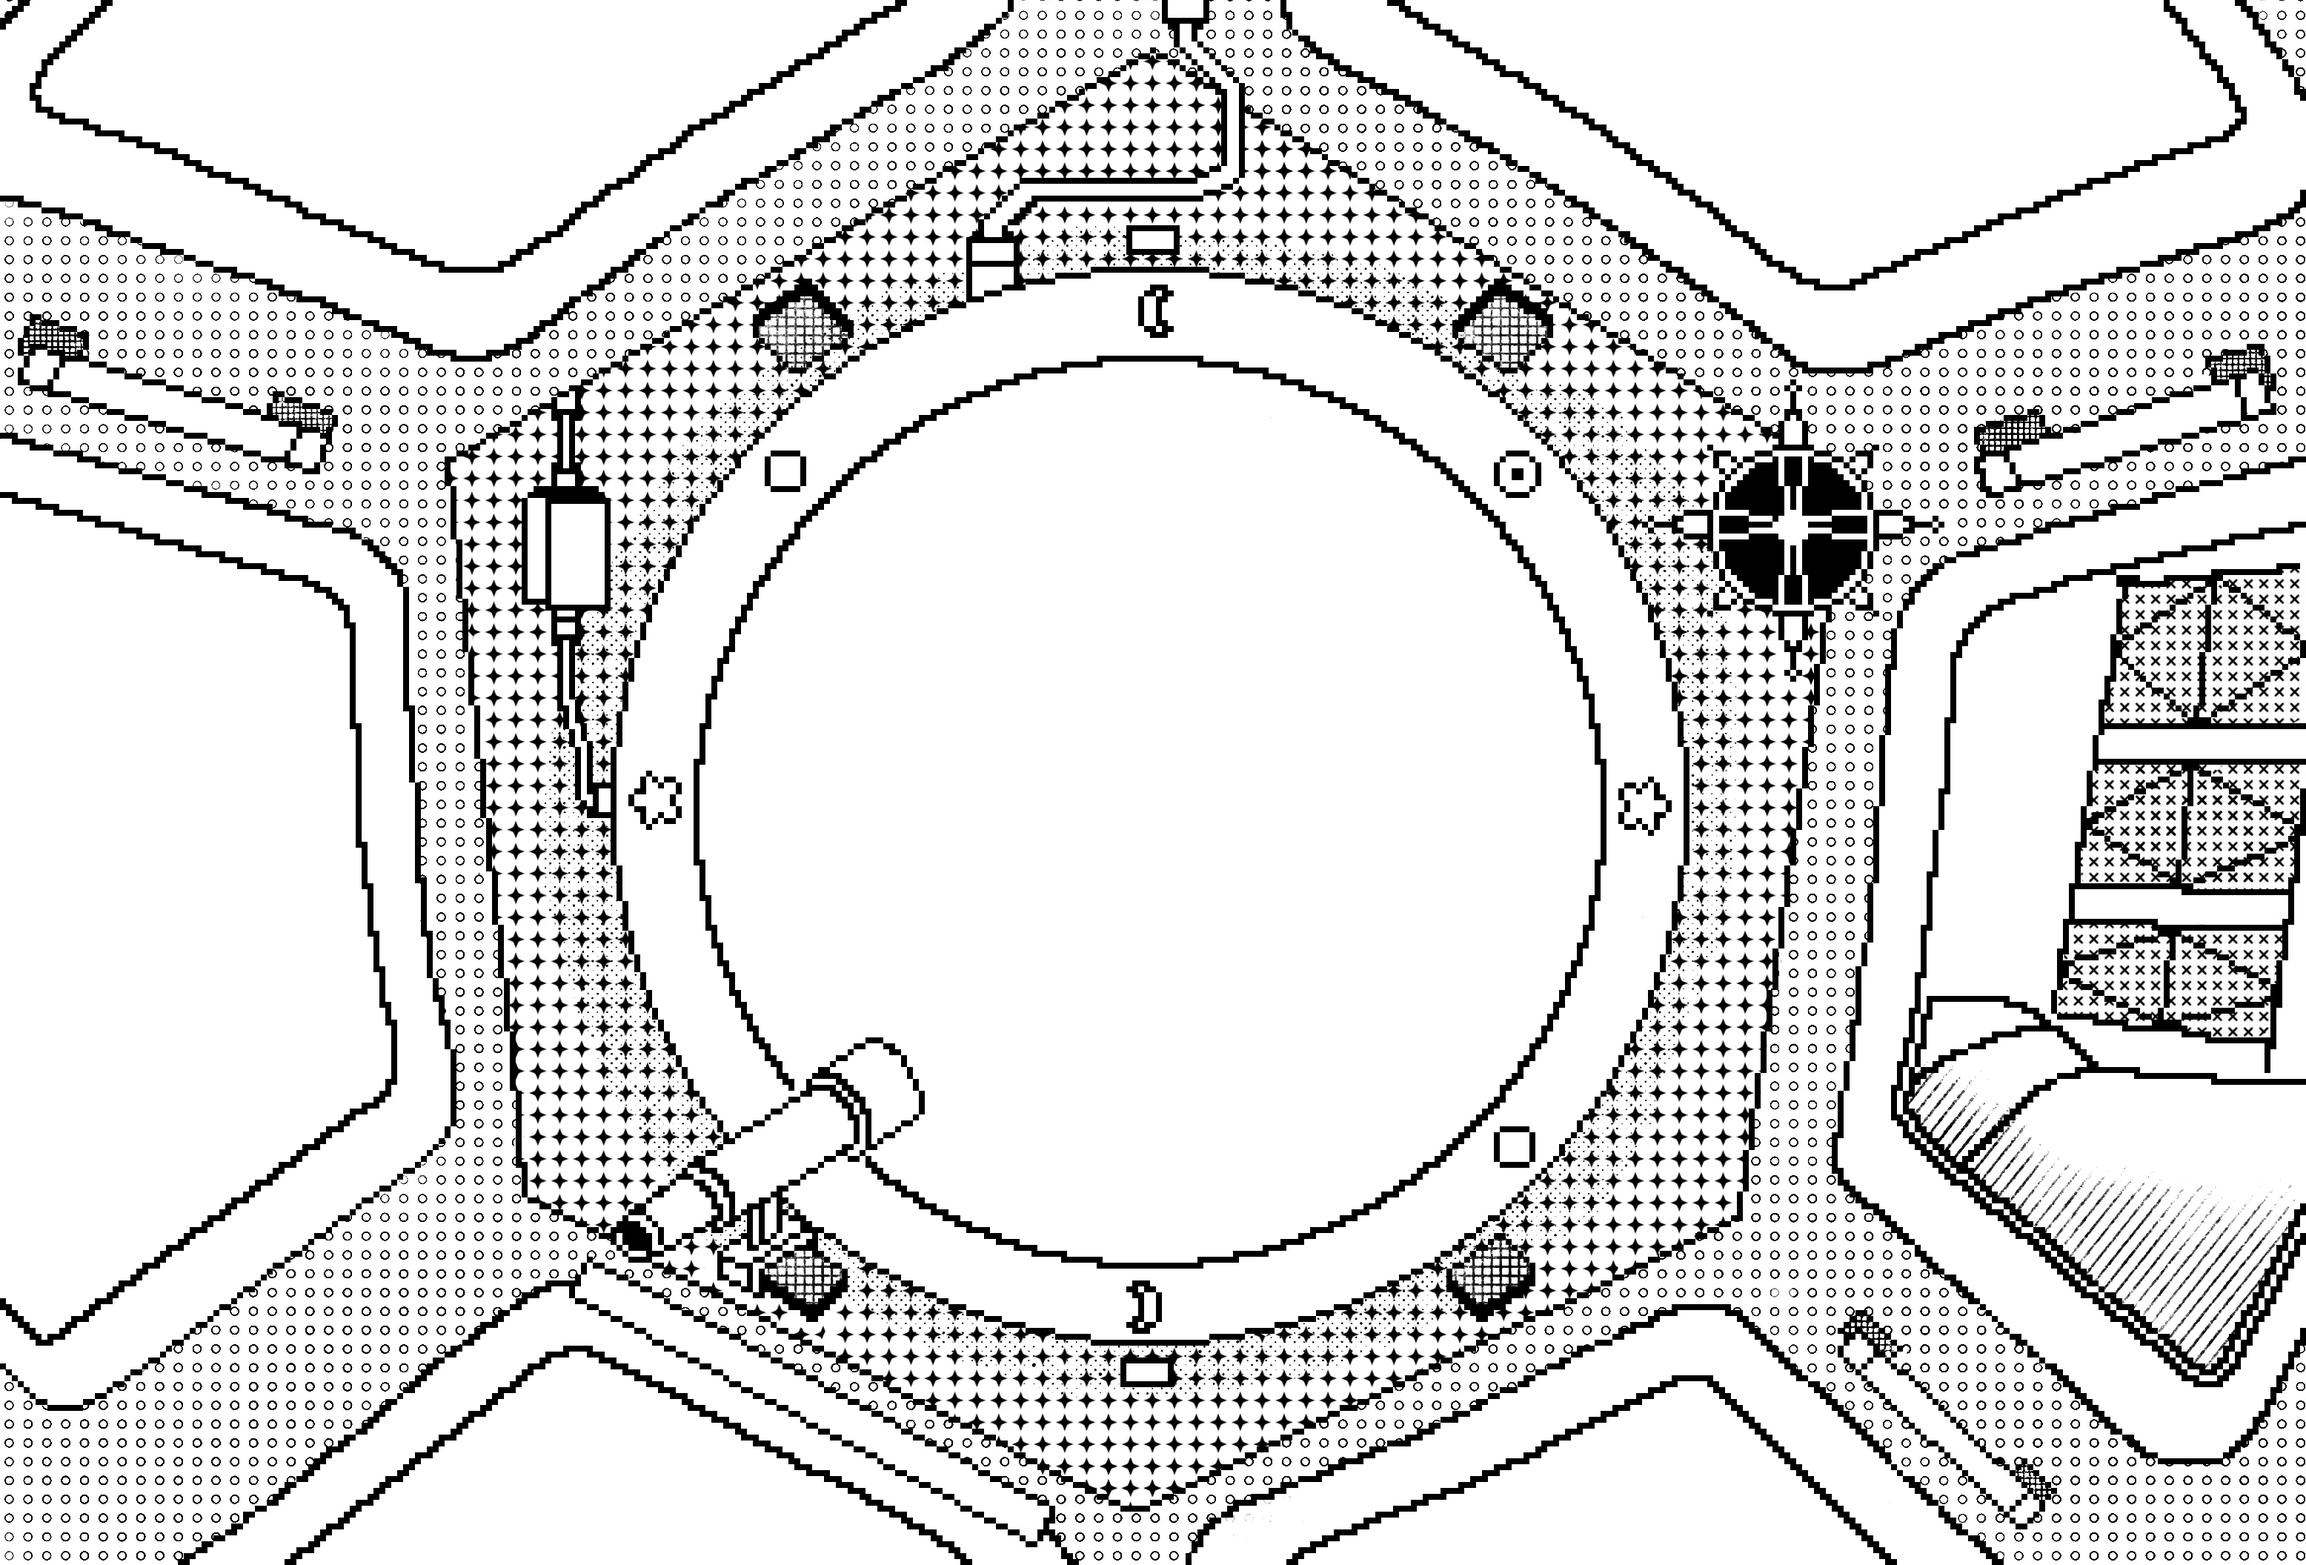
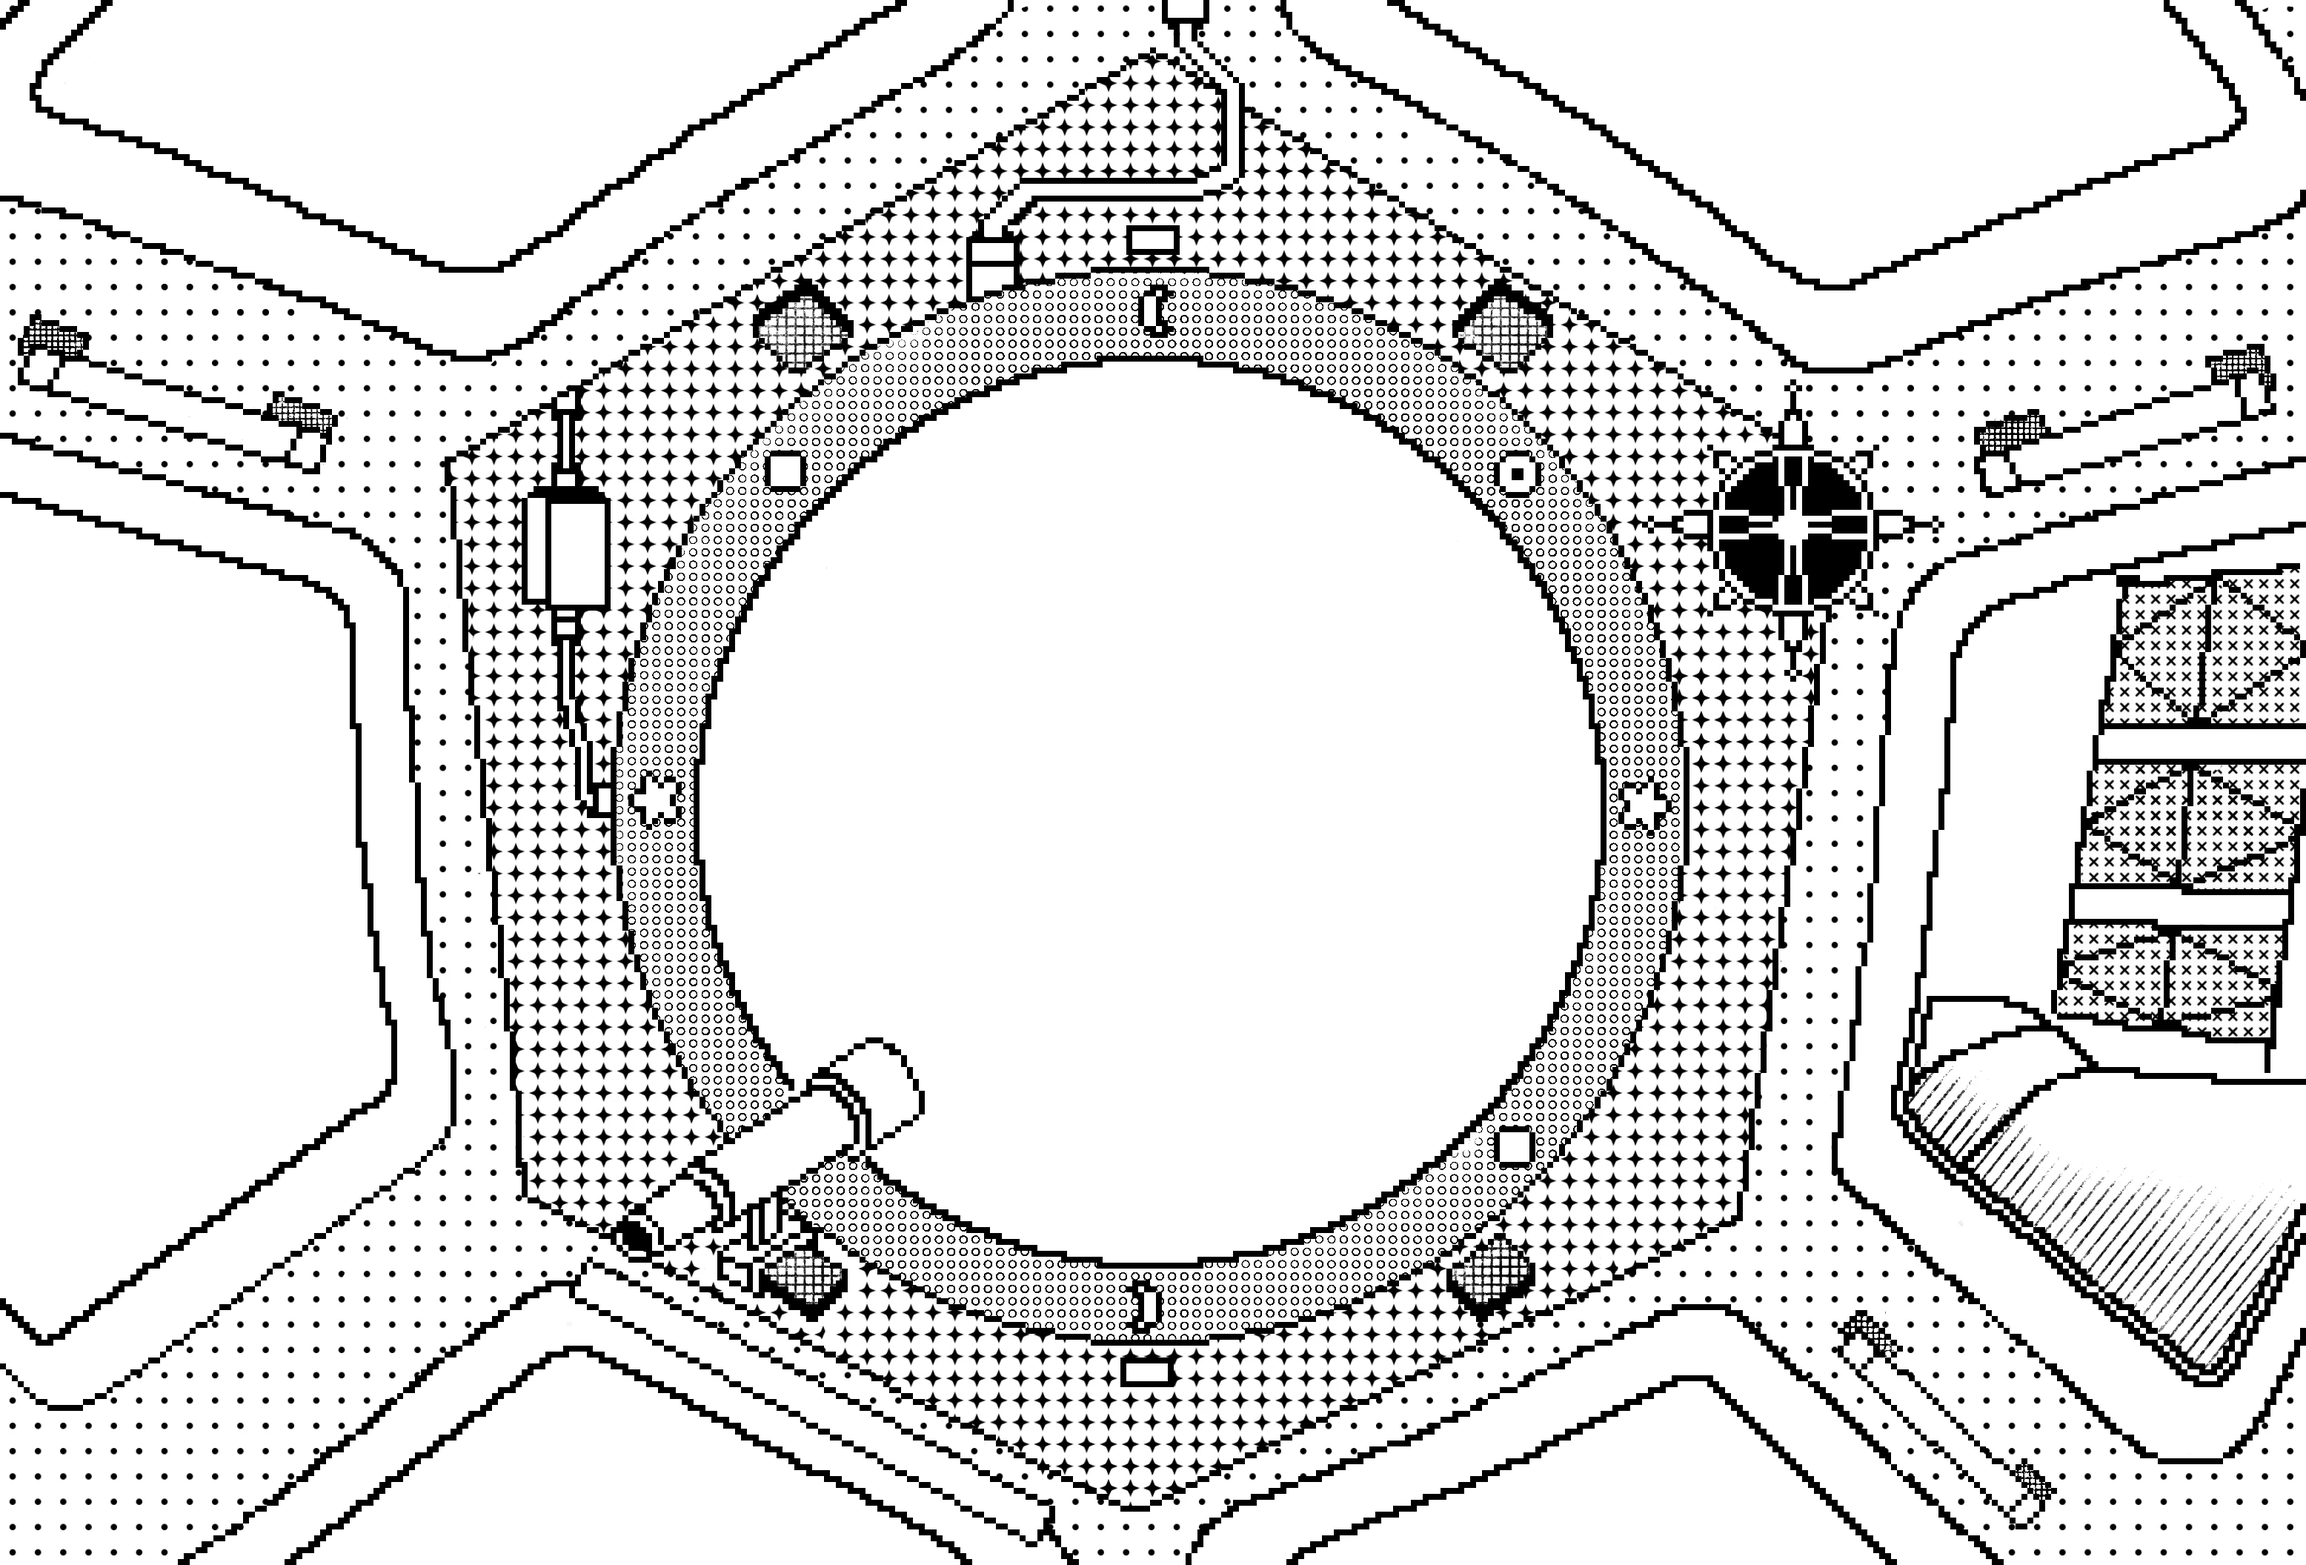
Update cupola illustration, add rotating backdrop.

diff --git a/src/app/globals.css b/src/app/globals.css
@@ -345,3 +345,26 @@ a {
     filter: brightness(1);
   }
 }
+
+/* Cupola backdrop */
+.spaceBackdrop {
+  position: absolute;
+  top: 50%;
+  left: 50%;
+  object-fit: cover;
+  transform: translate(-50%, -50%);
+  transform-origin: center center;
+  animation: rotateSpace 1000s linear infinite;
+  pointer-events: none;
+  will-change: transform;
+  opacity: 0.8;
+}
+
+@keyframes rotateSpace {
+  from {
+    transform: translate(-50%, -50%) rotate(0deg);
+  }
+  to {
+    transform: translate(-50%, -50%) rotate(360deg);
+  }
+}

diff --git a/src/components/module.js b/src/components/module.js
@@ -33,7 +33,18 @@ export default function Module({
 
       <Box position="relative">
         <SpaceBackdrop />
-
+        {module.id === "cupola" && (
+          <Box
+            as="img"
+            src="/images/cupola_space.webp"
+            alt="Cupola backdrop"
+            position="absolute"
+            objectFit="cover"
+            pointerEvents="none"
+            className="spaceBackdrop"
+          />
+        )}
+        
         <Image
           src={module.image}
           alt={module.title}

diff --git a/src/data/modules.js b/src/data/modules.js
@@ -95,7 +95,7 @@ export const modules = {
     ],
   },
   observationDeck: {
-    id: "observationDeck",
+    id: "cupola",
     title: "Observation Deck",
     image: "/images/modules/cupola_empty.webp",
     dialogue: `Gravity offline . . . \nNothing is expected.`,
